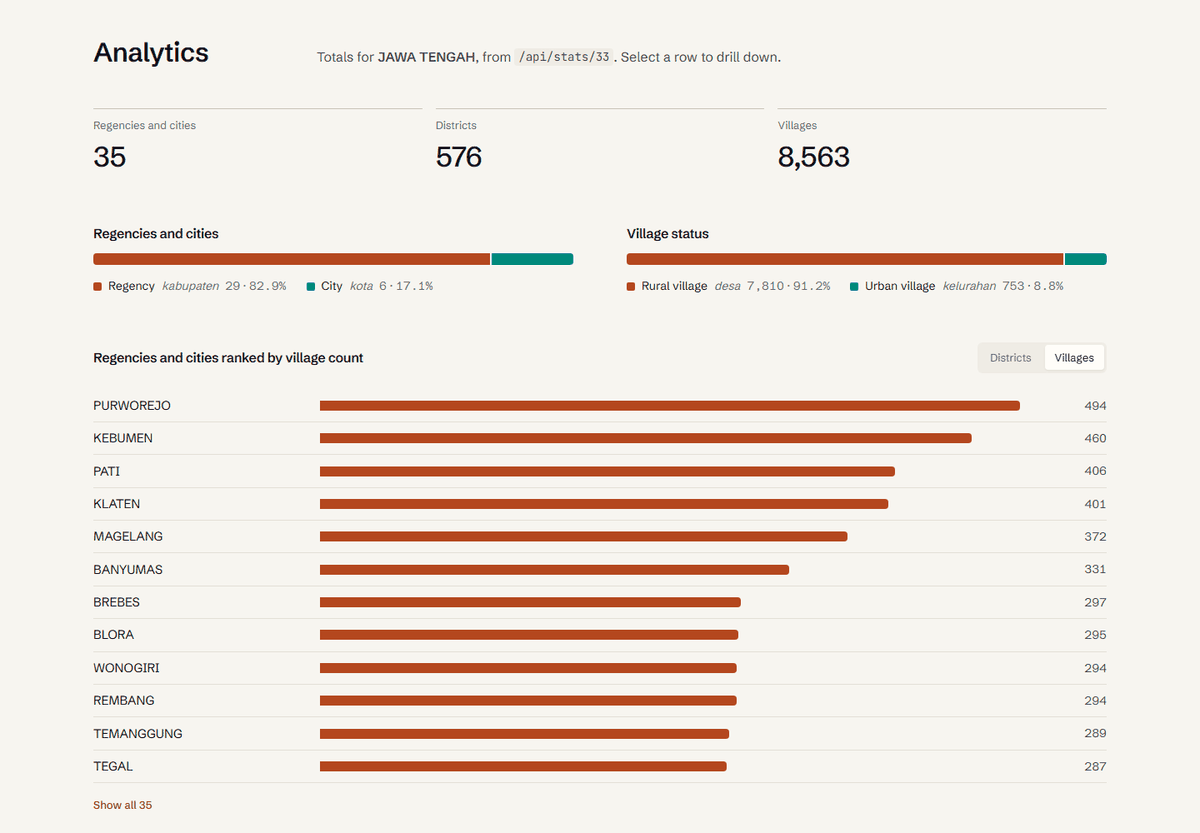
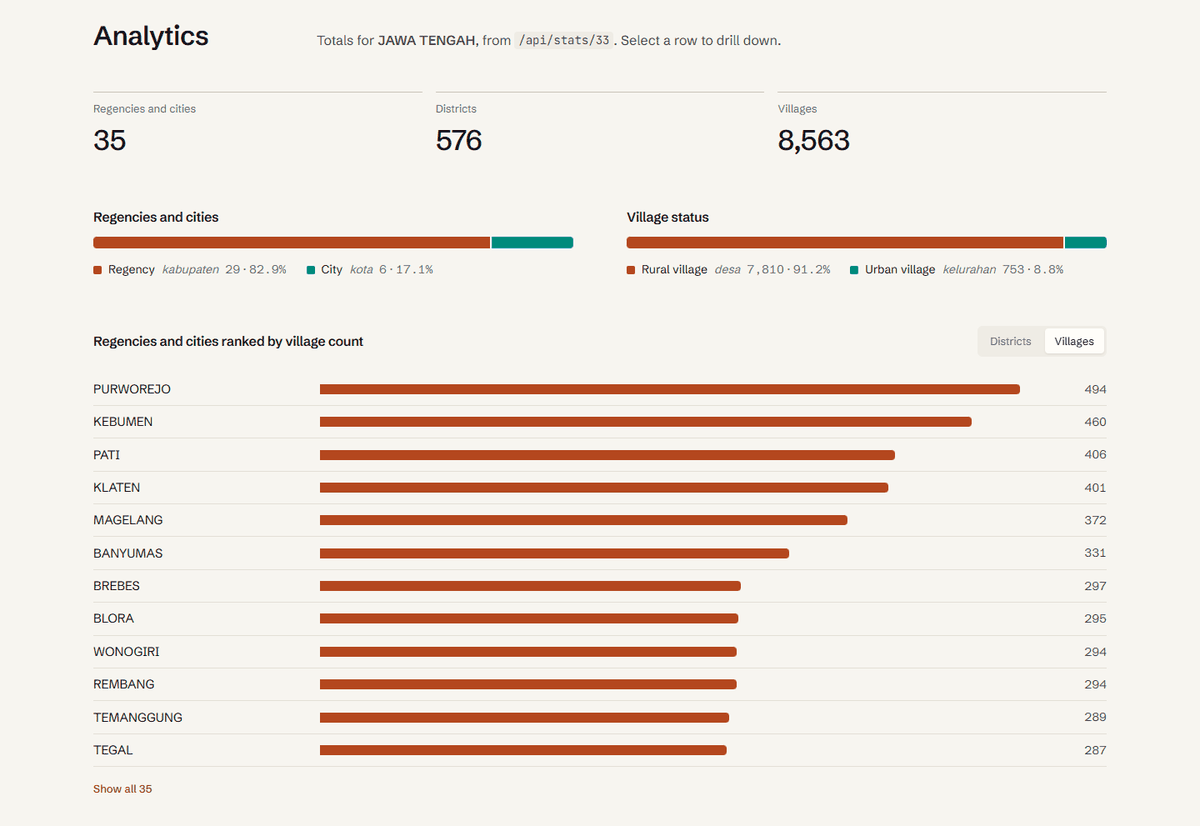
📝docs: Add dark-mode README screenshots
Render the explorer and analytics screenshots in both themes with the
same framing. The README shows them with <picture> and
prefers-color-scheme so each reader gets their GitHub theme, and links
both versions under each image.

diff --git a/README.md b/README.md
@@ -12,7 +12,12 @@ Free JSON API for Indonesian administrative region codes: 38 provinces, 514 rege
 curl https://wilayah.rone.dev/api/code/3301012001
 ```
 
-![Explorer: cascading province, regency, district and village pickers beside the live API response](docs/screenshot-explorer.png)
+<picture>
+  <source media="(prefers-color-scheme: dark)" srcset="docs/screenshot-explorer-dark.png">
+  <img src="docs/screenshot-explorer.png" alt="Explorer: cascading province, regency, district and village pickers beside the live API response">
+</picture>
+
+<sub>Follows your GitHub theme. Open the [light](docs/screenshot-explorer.png) or [dark](docs/screenshot-explorer-dark.png) version.</sub>
 
 ## The demo site
 
@@ -27,7 +32,12 @@ The landing page at `/` is a working client for the API, not a brochure:
   whatever is selected, all from `GET /api/stats/{code}`. Select a row to drill down.
 - **Reference**: generated from the registered routes, so it cannot drift from the API.
 
-![Analytics for Central Java: totals, regency and city split, village status, ranked regencies](docs/screenshot-analytics.png)
+<picture>
+  <source media="(prefers-color-scheme: dark)" srcset="docs/screenshot-analytics-dark.png">
+  <img src="docs/screenshot-analytics.png" alt="Analytics for Central Java: totals, regency and city split, village status, ranked regencies">
+</picture>
+
+<sub>Follows your GitHub theme. Open the [light](docs/screenshot-analytics.png) or [dark](docs/screenshot-analytics-dark.png) version.</sub>
 
 It is server-rendered with Jinja2 and uses one hand-written stylesheet and two small scripts.
 There is no build step and no frontend dependency. Light theme by default, with a switch for dark
@@ -137,7 +147,7 @@ Then open <http://127.0.0.1:8000/>. On Windows consoles that cannot print emoji,
 `uv run uvicorn app.main:app --reload` instead. `.claude/launch.json` holds the same command for
 the Claude Code preview browser.
 
-The screenshots in `docs/` are 1440px-wide renders of the running site, resized to 1200px.
+The screenshots in `docs/` are 1440px-wide renders of the running site in both themes, resized to 1200px.
 
 Settings come from environment variables or `.env`:
 
